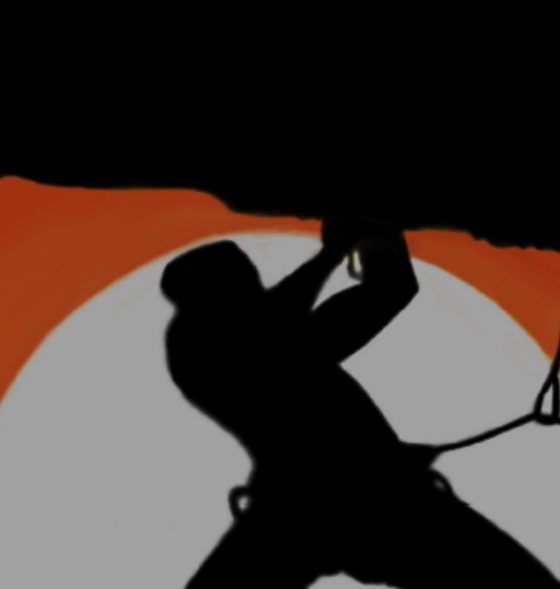
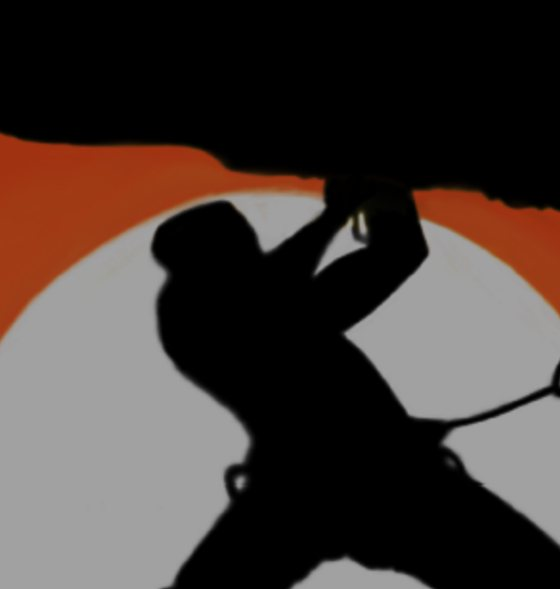
Detail pass: globe you can zoom, reactions from the phones, bees that land, a person on the Adaptability card
Presenter (btx27.html)
- Globe zoom: scroll or pinch zooms about the pointer, +/− buttons sit beside
  the globe, +/−/0 keys work, double-click flies to that spot and zooms in,
  Show all (or 0) resets. The painted sphere is cached between frames and
  capped in size while zoomed so it stays smooth.
- A bee flies from the join pill and lands on the archetype cell each time a
  phone finishes its compass (skipped under reduced motion).
- Reactions from the hall float up the right edge, sized and timed at random,
  capped at 48 on screen; stale ones (older than 9 s) are ignored.
- Poll questions get a wider column so the long ones sit on two balanced
  lines instead of three.
- Adaptability value card re-cropped: the person, head and shoulders,
  against the light, instead of the light bulb. Resilience re-centred.

Phone (x/)
- A reaction bar (👏 🔥 ❤ 🐝) on the watch, glance, rest, locked-poll and
  hive-cell screens: a tap buzzes, floats the emoji off the phone and writes
  a reactions doc the big screen picks up. Rate-limited to one per 450 ms
  and twelve per ten seconds. The row makes room for the corner boat.
- "Hold it — waiting for the captain's cue…" wraps in balance.
- Build stamp bumped to v4 on both screens.

Claude-Session: https://claude.ai/code/session_015ENsk2Z2iMZLsLt4CceQzj

Changed region(s): [[0.0, 0.2139, 0.6679, 1.0], [0.6071, 0.3056, 1.0, 1.0], [0.5161, 0.9474, 0.7893, 1.0]]

diff --git a/gem/btx27.html b/gem/btx27.html
@@ -69,9 +69,13 @@ button{font-family:var(--sans)}
 #pollenCanvas{position:fixed; inset:0; z-index:1; pointer-events:none}
 
 /* --- Overlays --- */
-#reactionOverlay{position:fixed; bottom:120px; right:36px; width:120px; height:60vh; z-index:60; pointer-events:none; overflow:visible}
+#reactionOverlay{position:fixed; bottom:110px; right:30px; width:clamp(160px,16vw,300px); height:64vh; z-index:60; pointer-events:none; overflow:visible}
 .floating-reaction{position:absolute; bottom:0; font-size:2.6rem; opacity:0; will-change:transform,opacity;
-  animation:floatUp 3.2s var(--ease) forwards; filter:drop-shadow(0 4px 10px rgba(0,0,0,.5))}
+  animation:floatUp var(--dur,3.2s) var(--ease) forwards; filter:drop-shadow(0 4px 10px rgba(0,0,0,.5))}
+/* a bee lands on the opening chart each time a phone finishes its compass */
+.bee-fly{position:fixed; left:0; top:0; z-index:70; font-size:1.9rem; line-height:1; pointer-events:none; filter:drop-shadow(0 4px 8px rgba(0,0,0,.55))}
+.arch-cell.landed{animation:cellLand .7s var(--ease)}
+@keyframes cellLand{0%{transform:scale(1)} 30%{transform:scale(1.045); box-shadow:0 0 0 3px rgba(255,226,0,.6), 0 18px 44px rgba(255,226,0,.22)} 100%{transform:scale(1)}}
 @keyframes floatUp{
   0%{opacity:0; transform:translateY(0) scale(.6)}
   12%{opacity:1}
@@ -174,8 +178,8 @@ main{position:relative; z-index:20; flex:1 1 auto; overflow:hidden; display:flex
 
 /* --- Poll --- */
 .poll-head{position:relative; text-align:center; margin-bottom:clamp(14px,2.6vh,30px); padding:0 clamp(150px,13vw,240px)}
-.poll-q{font-family:var(--serif); font-size:clamp(1.5rem,3vw,3rem); color:#fff; line-height:1.12; margin:0 auto; max-width:34ch; text-wrap:balance}
-.poll-q.long{font-size:clamp(1.3rem,2.5vw,2.5rem)}
+.poll-q{font-family:var(--serif); font-size:clamp(1.5rem,3vw,3rem); color:#fff; line-height:1.12; margin:0 auto; max-width:40ch; text-wrap:balance}
+.poll-q.long{font-size:clamp(1.25rem,2.35vw,2.35rem); max-width:50ch}
 .poll-head .votes-chip{position:absolute; right:0; top:50%; transform:translateY(-50%); white-space:nowrap}
 .poll-wrap .poll-opt{margin-bottom:clamp(8px,1.2vh,14px)}
 .poll-wrap .poll-track{height:clamp(32px,4.6vh,52px)}
@@ -327,8 +331,13 @@ main{position:relative; z-index:20; flex:1 1 auto; overflow:hidden; display:flex
 .vis-title.bottom{top:auto; bottom:22px}
 .chart-host{background:#061027}
 .globe-vis{background:radial-gradient(ellipse at 50% 60%, #0a1650 0%, #040a33 70%)}
-#globeHost{width:100%; height:100%; position:relative; cursor:grab}
+#globeHost{width:100%; height:100%; position:relative; cursor:grab; touch-action:none; overflow:hidden}
 #globeHost:active{cursor:grabbing}
+.globe-zoom{position:absolute; right:26px; top:50%; transform:translateY(-50%); display:flex; flex-direction:column; gap:8px; z-index:30}
+.globe-zoom .zbtn{width:48px; min-width:0; padding:0; height:48px; font-size:1.5rem; line-height:1; font-family:var(--sans)}
+.globe-zoom .zbtn:disabled{opacity:.35; cursor:default}
+.globe-hint{position:absolute; top:20px; left:24px; z-index:12; font-size:.72rem; letter-spacing:.08em; color:var(--ink-dim); background:rgba(0,6,31,.55); padding:7px 13px; border-radius:9px; border:1px solid var(--card-line); backdrop-filter:var(--glass); white-space:nowrap}
+.globe-hint b{color:var(--gold)}
 #globeCanvas{position:absolute; inset:0; display:block}
 #globePins{position:absolute; inset:0; pointer-events:none; overflow:hidden}
 .gpin .lbl{position:relative}
@@ -616,7 +625,7 @@ const ARCH_KEYS = ARCHETYPES.map(a=>a.key);
 const firebaseConfig = { apiKey:"AIzaSyBjHO57QKoMW-u4oLGGdgDSqw5gttqX6Fg", authDomain:"btyx-61dc6.firebaseapp.com", projectId:"btyx-61dc6", storageBucket:"btyx-61dc6.appspot.com", messagingSenderId:"851137405745", appId:"1:851137405745:web:c95b86b6f0462a9bc20610" };
 
 let app, db, auth, dbReady=false;
-const BUILD='18 Sep 2026 · v3';   // shown on the start screen so you can tell which build is live
+const BUILD = '18 Sep 2026 · v4';   // shown on the start screen so you can tell which build is live
 const isPresenter = new URLSearchParams(location.search).get('presenter')==='true';
 
 // Load Firebase, init, and sign in — all off the critical path. The UI is
@@ -758,12 +767,15 @@ function initListeners(){
   // Fold progress: each phone writes its boat's nextFold as it folds → "137 / 212 folded".
   onSnapshot(collection(db,"x_boats"), snap=>{ const m={}; snap.forEach(d=>{ m[d.id]=d.data().nextFold||0; }); live.folds=m;
     if(journeySteps[currentStep]?.type==='fold') paintFoldCount(); }, err=>console.warn(err));
+  let compassPrimed=false, compassSeen={};
   onSnapshot(collection(db,"compassQuiz"), snap=>{
     // Every phone writes a doc on the join tap (joined); the archetype becomes real when its compass quiz is done.
-    const r={total:0,joined:0,breakdown:{}}; snap.forEach(d=>{ const x=d.data(); r.joined++; const v=x.archetype; if(v && ARCH_KEYS.includes(v)){ r.total++; r.breakdown[v]=(r.breakdown[v]||0)+1; } });
+    const r={total:0,joined:0,breakdown:{}}, landed=[], seen={};
+    snap.forEach(d=>{ const x=d.data(); r.joined++; const v=x.archetype; if(v && ARCH_KEYS.includes(v)){ r.total++; r.breakdown[v]=(r.breakdown[v]||0)+1; if(compassPrimed && compassSeen[d.id]!==v) landed.push(v); } seen[d.id]=v||null; });
+    compassSeen=seen; compassPrimed=true;
     live.compass=r;
     updateParticipant(r.joined, r.total);
-    if(journeySteps[currentStep]?.type==='chart') paintCompass();
+    if(journeySteps[currentStep]?.type==='chart'){ paintCompass(); landed.slice(0,14).forEach((v,i)=>setTimeout(()=>landBee(v), i*170)); }
   }, err=>console.warn(err));
 
   onSnapshot(collection(db,"polls"), snap=>{
@@ -1044,6 +1056,21 @@ function renderCompass(){
   <p id="compassWait" style="text-align:center; color:var(--ink-dim); margin-top:22px; font-size:clamp(1rem,1.6vw,1.4rem)">Waiting for the first bees to arrive… scan to join.</p>
   <div id="compassDone" class="compass-done" hidden><div class="cd-bar"><div class="cd-fill"></div></div><span class="cd-text"></span></div></div>`;
 }
+/* A bee flies from the join pill to the archetype cell that just gained a member. */
+function landBee(key){
+  if(matchMedia('(prefers-reduced-motion:reduce)').matches || document.hidden) return;
+  const cell=document.querySelector(`.arch-cell[data-arch="${CSS.escape(key)}"]`); if(!cell) return;
+  const from=['qrPill','participantPill','hivePulse'].map(id=>document.getElementById(id)).find(el=>el && el.offsetParent!==null); if(!from) return;
+  const a=from.getBoundingClientRect(), b=cell.getBoundingClientRect();
+  const bee=document.createElement('div'); bee.className='bee-fly'; bee.textContent='🐝'; document.body.appendChild(bee);
+  const x0=a.left+a.width/2, y0=a.top+a.height/2, x1=b.left+b.width*(0.25+Math.random()*0.5), y1=b.top+b.height*0.58, mx=(x0+x1)/2+(Math.random()*200-100), my=Math.min(y0,y1)-90-Math.random()*80;
+  const anim=bee.animate([
+    {transform:`translate(${x0}px,${y0}px) scale(.5)`, opacity:0},
+    {transform:`translate(${mx}px,${my}px) scale(1.15) rotate(${Math.random()*40-20}deg)`, opacity:1, offset:.55},
+    {transform:`translate(${x1}px,${y1}px) scale(.85)`, opacity:1}
+  ],{duration:1100+Math.random()*500, easing:'cubic-bezier(.4,0,.2,1)'});
+  anim.onfinish=()=>{ bee.remove(); cell.classList.remove('landed'); void cell.offsetWidth; cell.classList.add('landed'); };
+}
 function paintCompass(){
   const grid=document.getElementById('compassGrid'); if(!grid) return;
   const total=live.compass.total||0, bd=live.compass.breakdown||{}, joined=live.compass.joined||0;
@@ -1265,6 +1292,8 @@ function renderGlobe(){
   return `<div class="split">
     <div class="main-vis globe-vis"><div class="vis-title bottom">${s.title}<span class="vs">${s.desc||''}</span></div>
       <div id="globeHost"><canvas id="globeCanvas"></canvas><div id="globePins"></div></div>
+      <div class="globe-zoom"><button id="zoomIn" class="btn btn-ghost zbtn" title="Zoom in (+)">+</button><button id="zoomOut" class="btn btn-ghost zbtn" title="Zoom out (−)">−</button></div>
+      <div class="globe-hint">Drag to turn · scroll or pinch to zoom · double-click to fly there · <b>0</b> resets</div>
       <div class="globe-ctrl"><button id="spinBtn" class="btn btn-ghost">▶ Spin</button><button id="homeBtn" class="btn btn-ghost">◎ Show all</button></div></div>
     <div class="side"><div id="nexusStats"><p style="color:var(--ink-dim)">Waiting for choices…</p></div></div>
   </div>`;
@@ -1284,8 +1313,11 @@ function buildLandTexture(){
   landTex={W,H,land,coast};
 }
 function paintSphere(sl,cl,sp,cp){
-  const R=gl.R, scale=(gl.drag||gl.spin)?0.5:0.72, S=Math.max(64,Math.round(2*R*scale));
-  if(!gl.sph||gl.sph.S!==S){ const cv2=document.createElement('canvas'); cv2.width=S; cv2.height=S; const cx2=cv2.getContext('2d'); gl.sph={S,cv:cv2,ctx:cx2,img:cx2.createImageData(S,S)}; }
+  const R=gl.R, busy=!!(gl.drag||gl.spin||gl.pinch||gl.fly||Math.abs(gl.zt-gl.zoom)>0.001), scale=busy?0.5:0.72, S=Math.max(64,Math.min(busy?720:1100,Math.round(2*R*scale)));
+  if(!gl.sph||gl.sph.S!==S){ const cv2=document.createElement('canvas'); cv2.width=S; cv2.height=S; const cx2=cv2.getContext('2d'); gl.sph={S,cv:cv2,ctx:cx2,img:cx2.createImageData(S,S),key:null}; }
+  const key=sl.toFixed(5)+'|'+cl.toFixed(5)+'|'+sp.toFixed(5)+'|'+cp.toFixed(5);   // same view → same picture, no work
+  if(gl.sph.key===key) return gl.sph.cv;
+  gl.sph.key=key;
   const d=gl.sph.img.data, half=S/2, inv=1/half, {land,coast,W:TW,H:TH}=landTex, TWf=TW/(2*Math.PI), THf=TH/Math.PI;
   let p=0;
   for(let j=0;j<S;j++){ const y2=-(j+0.5-half)*inv, yy=y2*y2;
@@ -1305,7 +1337,9 @@ function initGlobe(){
   if(animId) cancelAnimationFrame(animId);
   const ctx=cv.getContext('2d'); const D2R=Math.PI/180;
   const reduce=matchMedia('(prefers-reduced-motion:reduce)').matches;
-  gl={ lon:GLOBE_HOME_VIEW.lon, lat:GLOBE_HOME_VIEW.lat, spin:false, drift:!reduce, drag:null, t0:performance.now(), W:0,H:0,R:0,cx:0,cy:0 };
+  gl={ lon:GLOBE_HOME_VIEW.lon, lat:GLOBE_HOME_VIEW.lat, spin:false, drift:!reduce, drag:null, t0:performance.now(), W:0,H:0,R:0,R0:0,cx:0,cy:0,
+       zoom:1, zt:1, anchor:null, ptrs:new Map(), pinch:null, fly:null };
+  window.__globe=gl;   // a handle for DevTools and the headless checks
   if(!landTex) buildLandTexture();
   const unit=(lat,lon)=>{ const la=lat*D2R, lo=lon*D2R, c=Math.cos(la); return [c*Math.sin(lo), Math.sin(la), c*Math.cos(lo)]; };
   const homeV=unit(destinations.Singapore.lat,destinations.Singapore.lon);
@@ -1319,7 +1353,7 @@ function initGlobe(){
     if(d.lx) el.querySelector('.lbl').style.left=d.lx+'px'; if(d.stem) el.querySelector('.stem').style.height=d.stem+'px';
     if(!d.home && modalData[id]) el.onclick=()=>showNexusModal(id); pinsEl.appendChild(el); return {el, v:unit(d.lat,d.lon), home:!!d.home}; });
   gl.pins=pins;
-  function size(){ const r=host.getBoundingClientRect(); const dpr=Math.min(2,window.devicePixelRatio||1); gl.W=r.width; gl.H=r.height; cv.width=r.width*dpr; cv.height=r.height*dpr; cv.style.width=r.width+'px'; cv.style.height=r.height+'px'; ctx.setTransform(dpr,0,0,dpr,0,0); gl.R=Math.min(r.width,r.height)*0.42; gl.cx=r.width/2; gl.cy=r.height/2+gl.R*0.02; }
+  function size(){ const r=host.getBoundingClientRect(); const dpr=Math.min(2,window.devicePixelRatio||1); gl.W=r.width; gl.H=r.height; cv.width=r.width*dpr; cv.height=r.height*dpr; cv.style.width=r.width+'px'; cv.style.height=r.height+'px'; ctx.setTransform(dpr,0,0,dpr,0,0); gl.R0=Math.min(r.width,r.height)*0.42; gl.R=gl.R0*gl.zoom; gl.cx=r.width/2; gl.cy=r.height/2+gl.R0*0.02; }
   size();
   // orthographic projection of a unit vector for the current view
   let sl,cl,sp,cp;
@@ -1328,8 +1362,16 @@ function initGlobe(){
     return [gl.cx+x1*gl.R, gl.cy-y2*gl.R, z2]; }                                                 // z2>0 faces us
   function frame(now){
     animId=requestAnimationFrame(frame);
-    const dt=(now-(gl.last||now))/1000; gl.last=now;
-    if(!gl.drag){ if(gl.spin) gl.lon+=dt*9; else if(gl.drift){ gl.lon=GLOBE_HOME_VIEW.lon+Math.sin((now-gl.t0)/22000*Math.PI*2)*18; gl.lat=GLOBE_HOME_VIEW.lat+Math.sin((now-gl.t0)/31000*Math.PI*2)*5; } }
+    const dt=Math.min(0.1,(now-(gl.last||now))/1000); gl.last=now;
+    if(!gl.drag && !gl.pinch){
+      if(gl.spin) gl.lon+=dt*9;
+      else if(gl.fly){ const dl=((gl.fly.lon-gl.lon+540)%360)-180, a=Math.min(1,dt*5); gl.lon+=dl*a; gl.lat+=(gl.fly.lat-gl.lat)*a; if(Math.abs(dl)<0.08 && Math.abs(gl.fly.lat-gl.lat)<0.08) gl.fly=null; }
+      else if(gl.drift){ gl.lon=GLOBE_HOME_VIEW.lon+Math.sin((now-gl.t0)/22000*Math.PI*2)*18; gl.lat=GLOBE_HOME_VIEW.lat+Math.sin((now-gl.t0)/31000*Math.PI*2)*5; } }
+    // zoom eases toward its target; a wheel/pinch anchor keeps the place under the pointer where it was
+    if(Math.abs(gl.zt-gl.zoom)>0.0005){
+      gl.zoom+=(gl.zt-gl.zoom)*Math.min(1,dt*10); if(Math.abs(gl.zt-gl.zoom)<0.0005) gl.zoom=gl.zt; gl.R=gl.R0*gl.zoom;
+      if(gl.anchor && !gl.spin){ for(let it=0;it<2;it++){ view(); const u=unit(gl.anchor.lat,gl.anchor.lon); const [x,y]=proj(u[0],u[1],u[2]); const k=57.3/gl.R; gl.lon+=(x-gl.anchor.px)*k; gl.lat=Math.max(-80,Math.min(80,gl.lat+(gl.anchor.py-y)*k)); } }
+    } else if(gl.anchor) gl.anchor=null;
     view();
     const {W,H,R,cx,cy}=gl; ctx.clearRect(0,0,W,H);
     // atmosphere
@@ -1359,20 +1401,41 @@ function initGlobe(){
     // pins follow the surface; hide on the far side
     pins.forEach(p=>{ const [x,y,z]=proj(p.v[0],p.v[1],p.v[2]); if(z>0.06){ p.el.style.transform=`translate(${x.toFixed(1)}px,${y.toFixed(1)}px) translate(-50%,-100%)`; p.el.style.opacity=String(Math.min(1,(z-0.06)*4+0.35)); p.el.style.display='flex'; } else p.el.style.display='none'; });
   }
-  // interaction
-  const pd=e=>{ gl.drag={x:e.clientX,y:e.clientY,lon:gl.lon,lat:gl.lat}; gl.drift=false; };
-  const pm=e=>{ if(!gl.drag) return; const k=57.3/gl.R; gl.lon=gl.drag.lon-(e.clientX-gl.drag.x)*k; gl.lat=Math.max(-80,Math.min(80,gl.drag.lat+(e.clientY-gl.drag.y)*k)); };
-  const pu=()=>{ gl.drag=null; };
-  cv.addEventListener('pointerdown',pd); window.removeEventListener('pointermove',globeOnPointerMove); window.addEventListener('pointermove',globeOnPointerMove=pm);
-  window.removeEventListener('pointerup',globeOnPointerUp); window.addEventListener('pointerup',globeOnPointerUp=pu);
+  // interaction — drag to turn; wheel or pinch to zoom about the pointer; double-click to fly there; +/− buttons and keys; 0 / Show all resets
+  const sb=document.getElementById('spinBtn'), hb=document.getElementById('homeBtn'), zi=document.getElementById('zoomIn'), zo=document.getElementById('zoomOut');
+  const ZMIN=0.6, ZMAX=3.2;
+  function unproj(px,py){ const x1=(px-gl.cx)/gl.R, y2=(gl.cy-py)/gl.R, d=x1*x1+y2*y2; if(d>0.985) return null; const z2=Math.sqrt(1-d); view();
+    const y=y2*cp+z2*sp, z1=-y2*sp+z2*cp, x=x1*cl+z1*sl, z=-x1*sl+z1*cl; return {lat:Math.asin(y)/D2R, lon:Math.atan2(x,z)/D2R}; }
+  function zoomUI(){ if(zi) zi.disabled= gl.zt>=ZMAX-0.01; if(zo) zo.disabled= gl.zt<=ZMIN+0.01; }
+  function setZoom(z,px,py){ gl.zt=Math.max(ZMIN,Math.min(ZMAX,z)); const ll=(px!=null)?unproj(px,py):null; gl.anchor= ll?{px,py,lat:ll.lat,lon:ll.lon}:null; if(ll){ gl.drift=false; gl.fly=null; } zoomUI(); }
+  gl.zoomBy=f=>setZoom(gl.zt*f); gl.proj=proj; gl.unproj=unproj; gl.unit=unit;
+  gl.home=()=>{ gl.spin=false; gl.fly=null; gl.anchor=null; gl.zt=1; gl.drift=!reduce; gl.t0=performance.now(); gl.lon=GLOBE_HOME_VIEW.lon; gl.lat=GLOBE_HOME_VIEW.lat; if(sb) sb.textContent='▶ Spin'; zoomUI(); };
+  const local=e=>{ const r=host.getBoundingClientRect(); return [e.clientX-r.left, e.clientY-r.top]; };
+  const pd=e=>{ if(e.button!=null && e.button!==0) return; gl.ptrs.set(e.pointerId,{x:e.clientX,y:e.clientY});   // no pointer capture: the pins must keep their clicks
+    if(gl.ptrs.size>=2){ const [a,b]=[...gl.ptrs.values()]; gl.pinch={d:Math.hypot(a.x-b.x,a.y-b.y)||1, z:gl.zt}; gl.drag=null; return; }
+    gl.drag={x:e.clientX,y:e.clientY,lon:gl.lon,lat:gl.lat}; gl.drift=false; gl.fly=null; };
+  const pm=e=>{ if(gl.ptrs.has(e.pointerId)) gl.ptrs.set(e.pointerId,{x:e.clientX,y:e.clientY});
+    if(gl.pinch && gl.ptrs.size>=2){ const [a,b]=[...gl.ptrs.values()]; const d=Math.hypot(a.x-b.x,a.y-b.y), r=host.getBoundingClientRect(); setZoom(gl.pinch.z*d/gl.pinch.d, (a.x+b.x)/2-r.left, (a.y+b.y)/2-r.top); return; }
+    if(!gl.drag) return; const k=57.3/gl.R; gl.lon=gl.drag.lon-(e.clientX-gl.drag.x)*k; gl.lat=Math.max(-80,Math.min(80,gl.drag.lat+(e.clientY-gl.drag.y)*k)); };
+  const pu=e=>{ gl.ptrs.delete(e.pointerId); if(gl.ptrs.size<2) gl.pinch=null; if(gl.ptrs.size===0) gl.drag=null; };
+  host.addEventListener('pointerdown',pd); window.removeEventListener('pointermove',globeOnPointerMove); window.addEventListener('pointermove',globeOnPointerMove=pm);
+  if(globeOnPointerUp){ window.removeEventListener('pointerup',globeOnPointerUp); window.removeEventListener('pointercancel',globeOnPointerUp); }
+  globeOnPointerUp=pu; window.addEventListener('pointerup',pu); window.addEventListener('pointercancel',pu);
+  host.addEventListener('wheel',e=>{ e.preventDefault(); const [px,py]=local(e); const dy= e.deltaMode===1 ? e.deltaY*16 : e.deltaMode===2 ? e.deltaY*400 : e.deltaY; setZoom(gl.zt*Math.exp(-dy*0.0022),px,py); },{passive:false});
+  host.addEventListener('dblclick',e=>{ if(e.target.closest && e.target.closest('.gpin')) return; const [px,py]=local(e); const ll=unproj(px,py); if(!ll) return;
+    gl.drag=null; gl.drift=false; gl.spin=false; if(sb) sb.textContent='▶ Spin'; gl.anchor=null; gl.fly={lat:Math.max(-80,Math.min(80,ll.lat)), lon:ll.lon}; gl.zt=Math.max(gl.zt,2.2); zoomUI(); });
   window.removeEventListener('resize',globeOnResize); window.addEventListener('resize',globeOnResize=size);
-  const sb=document.getElementById('spinBtn'), hb=document.getElementById('homeBtn');
-  if(sb) sb.onclick=()=>{ gl.spin=!gl.spin; gl.drift=false; sb.textContent= gl.spin?'⏸ Stop spin':'▶ Spin'; };
-  if(hb) hb.onclick=()=>{ gl.spin=false; gl.drift=!reduce; gl.t0=performance.now(); gl.lon=GLOBE_HOME_VIEW.lon; gl.lat=GLOBE_HOME_VIEW.lat; if(sb) sb.textContent='▶ Spin'; };
+  if(sb) sb.onclick=()=>{ gl.spin=!gl.spin; gl.drift=false; gl.fly=null; gl.anchor=null; sb.textContent= gl.spin?'⏸ Stop spin':'▶ Spin'; };
+  if(hb) hb.onclick=gl.home;
+  if(zi) zi.onclick=()=>gl.zoomBy(1.4); if(zo) zo.onclick=()=>gl.zoomBy(1/1.4);
+  zoomUI();
   animId=requestAnimationFrame(frame);
   paintNexusStats();
 }
 let globeOnPointerMove=null;
+// + / − zoom the globe, 0 brings it home — only while the globe is on screen and no field has focus
+document.addEventListener('keydown',e=>{ if(!gl || !document.getElementById('globeCanvas') || (e.target.closest && e.target.closest('input,textarea'))) return;
+  if(e.key==='+'||e.key==='=') gl.zoomBy(1.4); else if(e.key==='-'||e.key==='_') gl.zoomBy(1/1.4); else if(e.key==='0') gl.home(); });
 function paintNexusStats(){
   const box=document.getElementById('nexusStats'); if(!box) return;
   const step=journeySteps[currentStep]; const opts=step.nexusData?.options||[]; const bd=live.nexus.breakdown||{}; const total=live.nexus.total||0;
@@ -1569,8 +1632,10 @@ let reactTimes=[];
 function spawnReaction(emoji){
   reactTimes.push(Date.now());
   if(matchMedia('(prefers-reduced-motion:reduce)').matches) return;
-  const ov=document.getElementById('reactionOverlay'); const el=document.createElement('span'); el.className='floating-reaction';
-  el.textContent=emoji; el.style.left=(Math.random()*80)+'px'; ov.appendChild(el); setTimeout(()=>el.remove(),3300);
+  const ov=document.getElementById('reactionOverlay'); if(!ov) return; while(ov.childElementCount>=48) ov.firstElementChild.remove();   // a full hall tapping at once stays smooth
+  const el=document.createElement('span'); el.className='floating-reaction'; const dur=2.8+Math.random()*1.4;
+  el.textContent=emoji; el.style.left=(Math.random()*(ov.clientWidth-40))+'px'; el.style.fontSize=(2+Math.random()*1.5)+'rem'; el.style.setProperty('--dur',dur.toFixed(2)+'s');
+  ov.appendChild(el); setTimeout(()=>el.remove(),dur*1000+100);
 }
 setInterval(()=>{ const now=Date.now(); reactTimes=reactTimes.filter(t=>now-t<10000); const level=Math.min(reactTimes.length,5);
   document.querySelectorAll('#hivePulse .pulse-bar').forEach((b,i)=>{ if(i<level){ b.classList.add('active'); b.style.height=(10+(level-i)*4)+'px'; } else { b.classList.remove('active'); b.style.height='9px'; } });

diff --git a/gem/x/app.js b/gem/x/app.js
@@ -470,7 +470,7 @@ function startSessionListener() {
 // === STATE ===
 const $app = document.getElementById('app');
 const SK = 'btySail_v7';
-const BUILD = '18 Sep 2026 · v3';   // shown on the boarding screen so a phone can tell which build it has
+const BUILD = '18 Sep 2026 · v4';   // shown on the boarding screen so a phone can tell which build it has
 let D = JSON.parse(localStorage.getItem(SK)) || {};
 D.marks = D.marks || [];
 let step = 0;
@@ -1912,7 +1912,7 @@ function renderReadyToSail() {
             <h1 class="font-serif text-2xl mb-1" style="color:var(--text-primary);">${(D.aspiration || 'Set sail').toUpperCase()}</h1>
             <div class="ready-wait mt-4 mb-2">
                 <span class="ready-dot"></span>
-                <span class="text-sm" style="color:var(--text-secondary);">Hold it — waiting for the captain's cue…</span>
+                <span class="text-sm" style="color:var(--text-secondary); text-wrap:balance;">Hold it — waiting for the captain's cue…</span>
             </div>
             <p class="text-[11px] max-w-xs" style="color:var(--text-muted);">When the whole hall sets sail together, your boat joins the fleet on the big screen. Look up. 🌊</p>
             <button id="sailNowBtn" class="nav-btn secondary mt-8" style="opacity:0;transition:opacity .5s;">Set sail now</button>
@@ -2120,7 +2120,9 @@ function showPollResult(p) {
                 </div>`).join('')}</div>
             <div class="q-insight">${p.insight || ''}</div>`}
         </div>
+        ${reactBarHTML()}
     </div>`;
+    wireReactBar();
     showCornerBoat();
     if (revealed) hapticPattern(mine?.correct ? [30, 40, 90] : [40]);
     if (db && collection && onSnapshot) {
@@ -2395,7 +2397,9 @@ function renderHiveCell() {
             <div class="hive-hex"><span>${w}</span></div>
             <p class="text-sm mt-5 max-w-xs" style="color:var(--text-secondary);">Look up — it's rising off your hull and into the Hive. Every cell up there is a Beattyian's dream. 🐝</p>
         </div>
+        ${reactBarHTML()}
     </div>`;
+    wireReactBar();
 }
 
 // ============================================================
@@ -2463,6 +2467,26 @@ function chapterStrip() {
     const idx = CHAPTERS.indexOf(chapterNow);
     return `<div class="ch-strip">${CHAPTERS.map((c, i) => `<span class="ch-dot${i < idx ? ' done' : ''}${i === idx ? ' now' : ''}"></span>`).join('')}<span class="ch-name">${chapterNow || ''}</span></div>`;
 }
+/* --- Reactions: a tap here floats up the big screen (and the phone shows it leaving) --- */
+const REACTIONS = ['👏', '🔥', '❤', '🐝'];
+let lastReactAt = 0, reactWindow = [];
+function reactBarHTML() {
+    return `<div class="react-bar" id="reactBar" aria-label="React on the big screen">${REACTIONS.map(e => `<button class="react-btn" type="button" data-e="${e}" aria-label="Send ${e}">${e}</button>`).join('')}<span class="react-hint">tap one · it floats up the big screen</span></div>`;
+}
+function wireReactBar() {
+    const bar = document.getElementById('reactBar'); if (!bar) return;
+    bar.querySelectorAll('.react-btn').forEach(b => b.addEventListener('pointerdown', ev => { ev.preventDefault(); sendReaction(b.dataset.e, b); }));
+}
+function sendReaction(emoji, btn) {
+    const now = Date.now();
+    if (now - lastReactAt < 450) return;                                          // no machine-gunning
+    reactWindow = reactWindow.filter(t => now - t < 10000); if (reactWindow.length >= 12) return;
+    lastReactAt = now; reactWindow.push(now);
+    feel('tick');
+    try { const r = btn.getBoundingClientRect(); const f = document.createElement('span'); f.className = 'react-float'; f.textContent = emoji; f.style.left = (r.left + r.width / 2) + 'px'; f.style.top = (r.top + r.height / 2) + 'px'; document.body.appendChild(f); setTimeout(() => f.remove(), 1500); } catch (e) {}
+    btn.classList.remove('sent'); void btn.offsetWidth; btn.classList.add('sent');
+    if (db && auth?.currentUser && collection) { try { setDoc(doc(collection(db, 'reactions')), { emoji, uid: auth.currentUser.uid, timestamp: serverNow() }).catch(() => {}); } catch (e) {} }
+}
 function renderWatch(state) {
     hideCornerBoat();
     $app.innerHTML = `
@@ -2473,7 +2497,9 @@ function renderWatch(state) {
             <p class="text-[10px] mt-3 tracking-[0.3em] uppercase" style="color:var(--text-muted);">Eyes on the screen</p>
             ${state && state.title ? `<h1 class="font-serif text-lg mt-2" style="color:var(--text-secondary);">${state.title}</h1>` : ''}
         </div>
+        ${reactBarHTML()}
     </div>`;
+    wireReactBar();
     cornerCatchUp();
 }
 function renderGlance(state, kind) {
@@ -2496,7 +2522,9 @@ function renderGlance(state, kind) {
     <div class="sail-screen follow-screen glance-screen fade-up">
         ${chapterStrip()}
         <div class="flex-1 flex flex-col items-center justify-center p-5 text-center">${body}</div>
+        ${reactBarHTML()}
     </div>`;
+    wireReactBar();
     cornerCatchUp();
 }
 
@@ -2666,7 +2694,9 @@ function renderRest(title, sub) {
             <div class="follow-boat" id="restBoat">${buildOrigamiSVG(c, stage, 190, extras())}</div>
             ${stage >= 8 ? `<p class="text-[10px] mt-3 tracking-[0.2em] uppercase" style="color:var(--text-muted);">${NEEDS_TILT_TAP ? 'Tap the boat, then tilt your phone' : 'Tilt your phone'} 🌊</p>` : ''}
         </div>
+        ${soloMode ? '' : reactBarHTML()}
     </div>`;
+    wireReactBar();
     if (stage >= 8) { const b = document.getElementById('restBoat'); enableTilt(b); b.onclick = () => { requestTiltPermission(); feel('tick'); }; }
     if (soloMode) addSoloNext();
 }

diff --git a/gem/x/app.css b/gem/x/app.css
@@ -1048,3 +1048,16 @@ body[data-mode="watch"] .mode-band { background: rgba(0,12,83,.9); }
 .hap-line[data-kind="ok"] { border-color: rgba(155,231,196,.4); }
 .hap-line[data-kind="blocked"] { border-color: rgba(236,50,55,.45); color: #ffb4b6; }
 .hap-btn { padding: 5px 10px; border-radius: 999px; background: var(--accent-gold); color: #04081a; font-weight: 800; font-size: .62rem; letter-spacing: .08em; text-transform: uppercase; }
+
+/* --- Reactions: tap → it floats up the big screen; the phone shows it leaving --- */
+.react-bar { margin-top: auto; padding: 8px 14px 22px; display: flex; flex-wrap: wrap; justify-content: center; align-items: center; gap: 10px; }
+body:has(#cornerBoat:not([hidden])) .react-bar { padding-right: 100px; gap: 8px; }   /* leave the corner boat its corner: four buttons still fit on one row at 390px */
+body:has(#cornerBoat:not([hidden])) .react-btn { width: 44px; height: 44px; font-size: 1.3rem; }
+.react-btn { width: 52px; height: 52px; border-radius: 50%; border: 1px solid rgba(255,255,255,.14); background: rgba(255,255,255,.06); color: inherit; font-size: 1.5rem; line-height: 1; display: inline-flex; align-items: center; justify-content: center; cursor: pointer; touch-action: manipulation; -webkit-tap-highlight-color: transparent; user-select: none; -webkit-user-select: none; transition: transform .12s ease, background .2s ease; }
+.react-btn:active { transform: scale(.88); background: rgba(255,226,0,.18); }
+.react-btn.sent { animation: reactPop .45s ease; }
+@keyframes reactPop { 0% { transform: scale(1); } 40% { transform: scale(1.22); } 100% { transform: scale(1); } }
+.react-hint { flex-basis: 100%; text-align: center; font-size: .58rem; letter-spacing: .18em; text-transform: uppercase; color: var(--text-muted); }
+.react-float { position: fixed; z-index: 80; pointer-events: none; font-size: 1.8rem; line-height: 1; transform: translate(-50%, -50%); animation: reactFloat 1.4s cubic-bezier(.2,.7,.3,1) forwards; }
+@keyframes reactFloat { 0% { opacity: 0; transform: translate(-50%, -50%) scale(.6); } 15% { opacity: 1; } 100% { opacity: 0; transform: translate(-50%, calc(-50% - 46vh)) scale(1.3); } }
+@media (prefers-reduced-motion: reduce) { .react-float, .react-btn.sent { animation: none; } }
